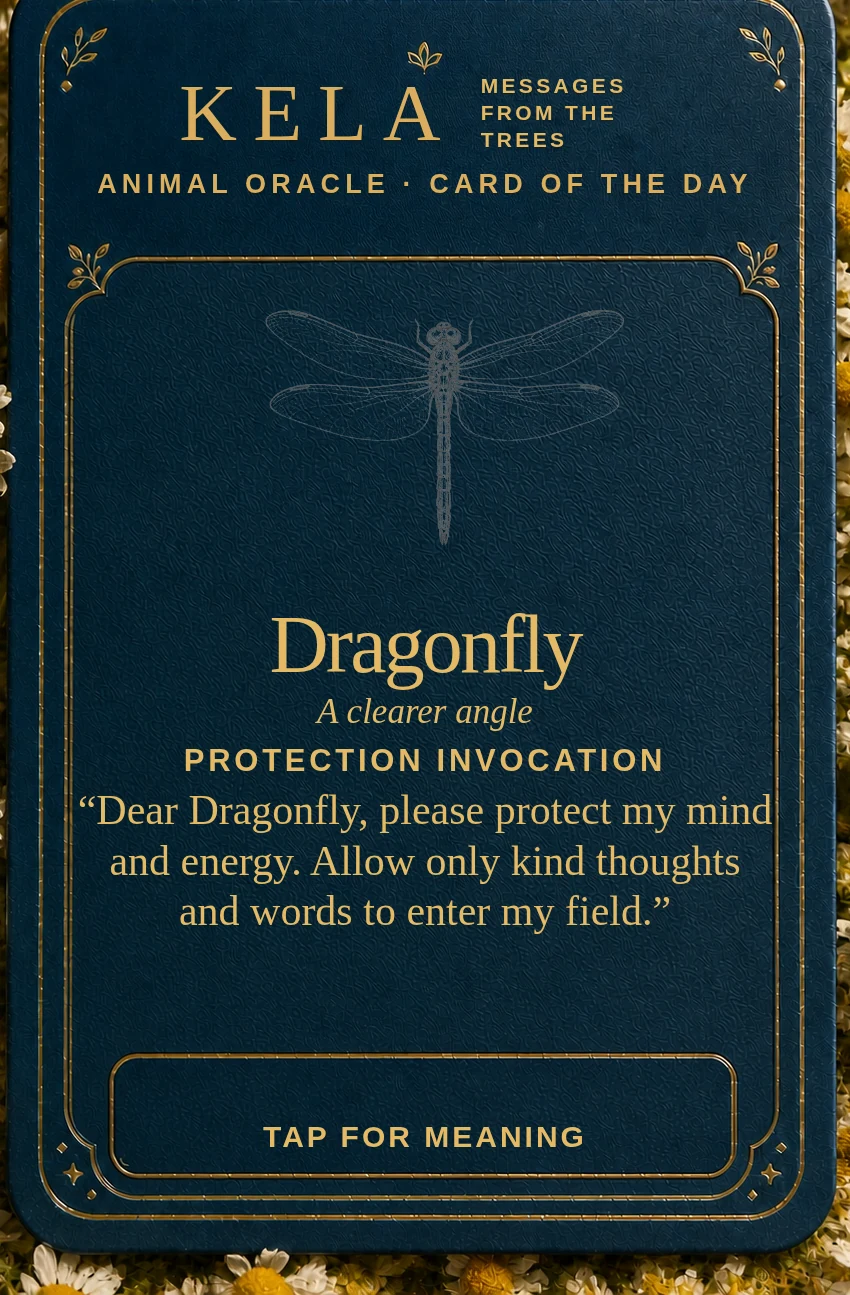
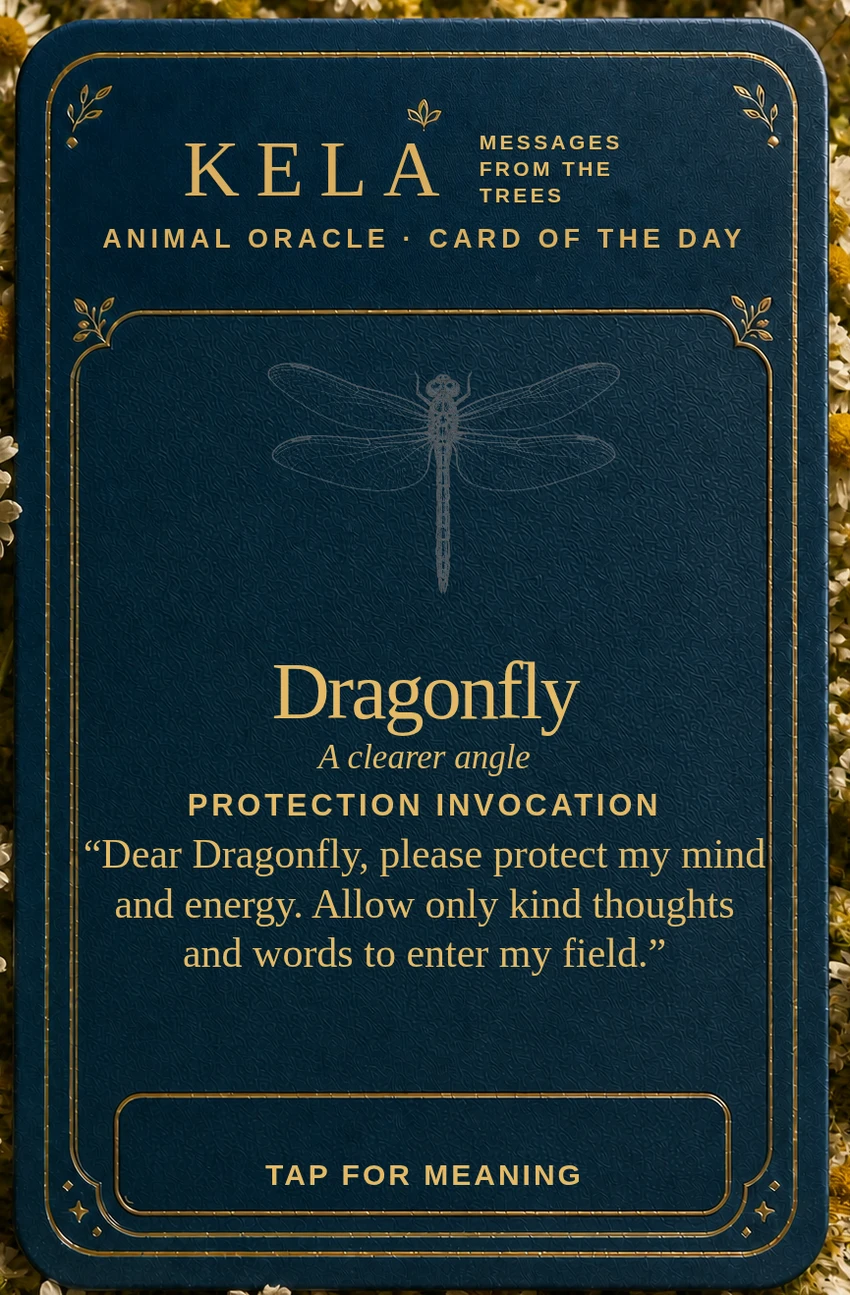
Restore Dragonfly oracle top border

diff --git a/animal-guide.js b/animal-guide.js
@@ -346,7 +346,7 @@ const preloadGuideCard = (index) => {
     };
     image.addEventListener("load", finish);
     image.addEventListener("error", finish);
-    image.src = `${cardAssetBase}-${side}.webp?v=20260825-9`;
+    image.src = `${cardAssetBase}-${side}.webp?v=20260825-10`;
     if (image.complete && image.naturalWidth > 0) finish();
   });
   return Promise.all([
@@ -400,8 +400,8 @@ const fillGuide = (index, colorIndex) => {
   oracleCard.style.setProperty("--guide-accent", cardColor.value);
   updateGuideSeo(guide, cardColor);
   const cardAssetBase = `assets/oracle-cards/animal/${slugify(guide.name)}`;
-  const cardFrontSrc = `${cardAssetBase}-front.webp?v=20260825-9`;
-  const cardBackSrc = `${cardAssetBase}-back.webp?v=20260825-9`;
+  const cardFrontSrc = `${cardAssetBase}-front.webp?v=20260825-10`;
+  const cardBackSrc = `${cardAssetBase}-back.webp?v=20260825-10`;
   if (animalCardFront) {
     if (animalCardFront.getAttribute("src") !== cardFrontSrc) animalCardFront.src = cardFrontSrc;
     animalCardFront.alt = `${guide.name} KELA Animal Oracle card`;

diff --git a/animal-oracle.html b/animal-oracle.html
@@ -39,7 +39,7 @@
     <script src="script.js?v=20260825-25" defer></script>
     <script src="free-online-oracle-labels.js?v=20260825-1" defer></script>
     <script src="ux-observer.js?v=20260825-2" data-clarity-project-id="" defer></script>
-    <script src="animal-guide.js?v=20260825-11" defer></script>
+    <script src="animal-guide.js?v=20260825-12" defer></script>
     <script type="application/ld+json">
       {
         "@context": "https://schema.org",
